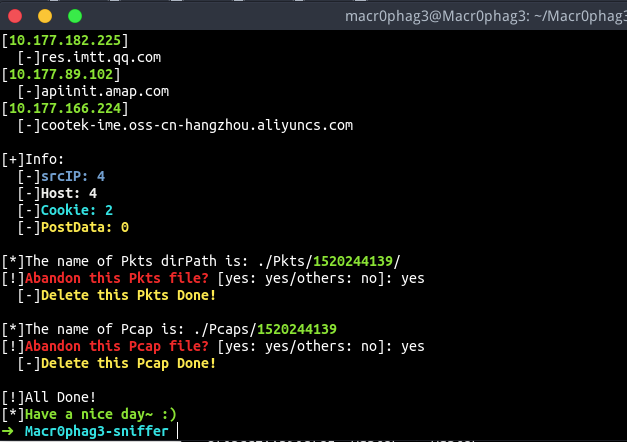
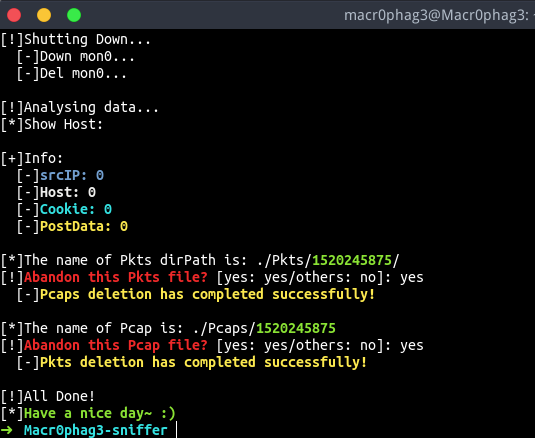
update README.md

diff --git a/Macr0phag3-sniffer/Tools.py b/Macr0phag3-sniffer/Tools.py
@@ -72,11 +72,11 @@ def Abandon(sfilename, tfile):
     if tfile == 'pkt':
         if raw_input('[!]%s [yes: yes/others: no]: ' %(putColor('Abandon this Pkts file?', 'red'))) == "yes": 
             commands.getoutput('sudo rm -r ./Pkts/%s/' %(sfilename))
-            print '  [-]%s' %putColor('Delete this Pkts Done!', 'yellow')
+            print '  [-]%s' %putColor('Pkts deletion has completed successfully!', 'yellow')
     elif tfile == 'pcap': 
         if raw_input('[!]%s [yes: yes/others: no]: ' %(putColor('Abandon this Pcap file?', 'red'))) == "yes": 
             commands.getoutput('sudo rm ./Pcaps/%s.pcap' %(sfilename))
-            print '  [-]%s' %putColor('Delete this Pcap Done!', 'yellow')    
+            print '  [-]%s' %putColor('Pcaps deletion has completed successfully!', 'yellow')    
 
     
 def HtmlShow(name):  
